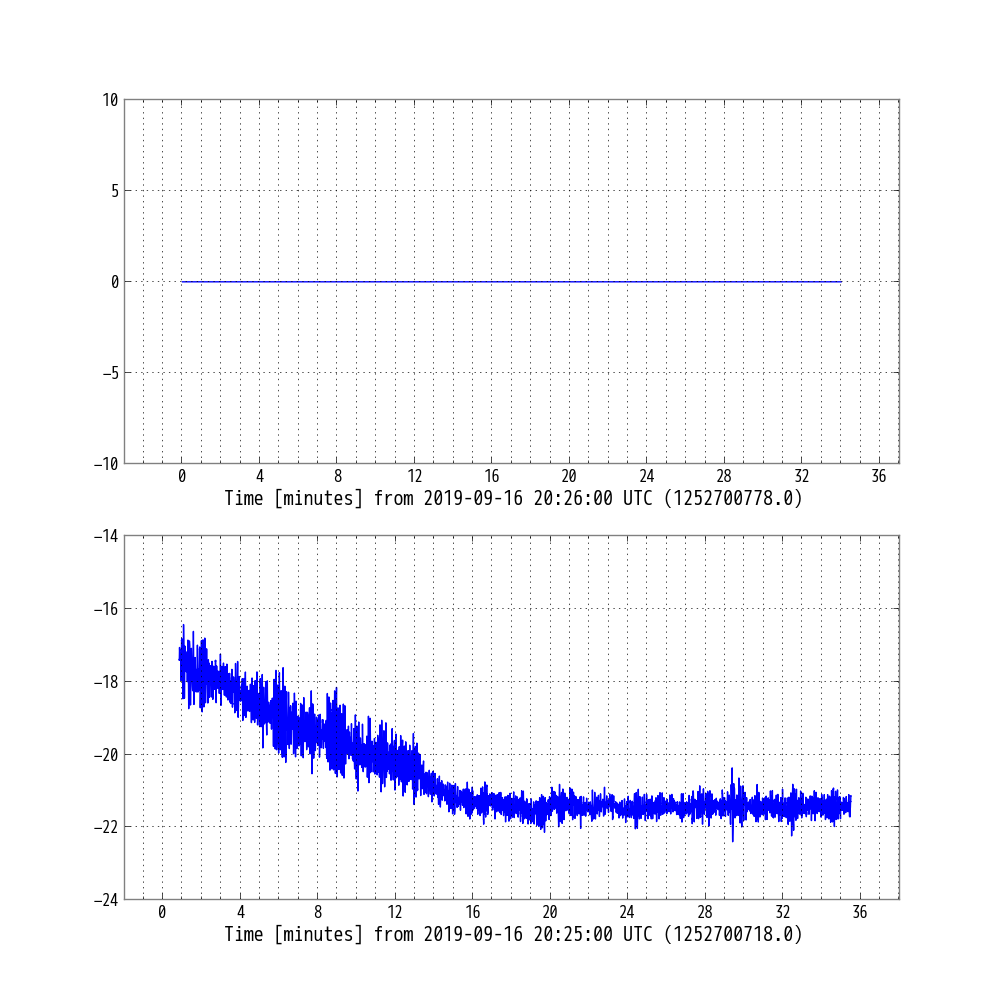
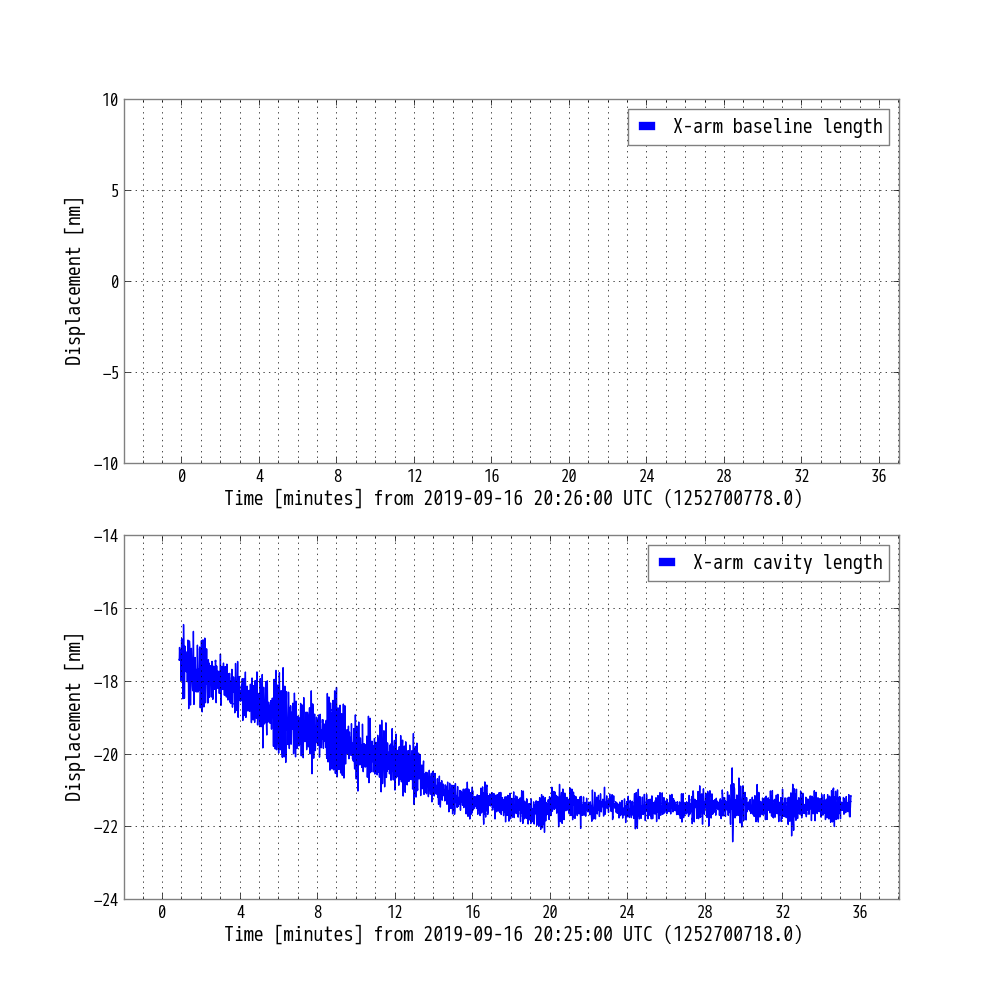
Update

diff --git a/ugm/strainmeter/main2.py b/ugm/strainmeter/main2.py
@@ -9,8 +9,8 @@ from miyopy.gif.datatype import GifData
 from gwpy.time import tconvert
 from gwpy.timeseries import TimeSeries
 
-start = tconvert('Sep 16 2019 20:26:00 UTC')
-end = tconvert('Sep 16 2019 21:00:00 UTC')
+start = tconvert('Sep 16 2019 20:16:00 UTC')
+end = tconvert('Sep 16 2019 21:10:00 UTC')
 if False:
     chname = 'CALC_STRAIN'
     gif = GifData('CALC_STRAIN')
@@ -22,18 +22,22 @@ if False:
     data.name = 'CALC_STRAIN'
     data.write('gif_Sep17.gwf')
 else:
-    gif = TimeSeries.read('gif_Sep17.gwf','CALC_STRAIN')*3000*1e-6
+    gif = TimeSeries.read('gif_Sep17.gwf','CALC_STRAIN')*3000*1e6
     fnamelist = existedfilelist(start,end,trend='full')
     c = 299792458 # m/sec
     lam = 1064e-9 # m
     xarm = TimeSeries.read(fnamelist,'K1:CAL-CS_PROC_XARM_FILT_AOM_OUT16')*3000.0/(c/lam)*1e6 # [um]
 
 fig,ax = plt.subplots(2,1,figsize=(10,10))
-ax[0].plot(gif)
+ax[0].plot(gif,label='X-arm baseline length')
 ax[0].set_ylim(-10,10)
 ax[0].set_xscale('auto-gps')
-ax[1].plot(xarm)
+ax[0].set_ylabel('Displacement [nm]')
+ax[1].plot(xarm,label='X-arm cavity length')
 ax[1].set_xscale('auto-gps')
+ax[1].set_ylabel('Displacement [nm]')
 ax[1].set_ylim(-24,-14)
+ax[0].legend()
+ax[1].legend()
 plt.savefig('gif.png')
 plt.close()
